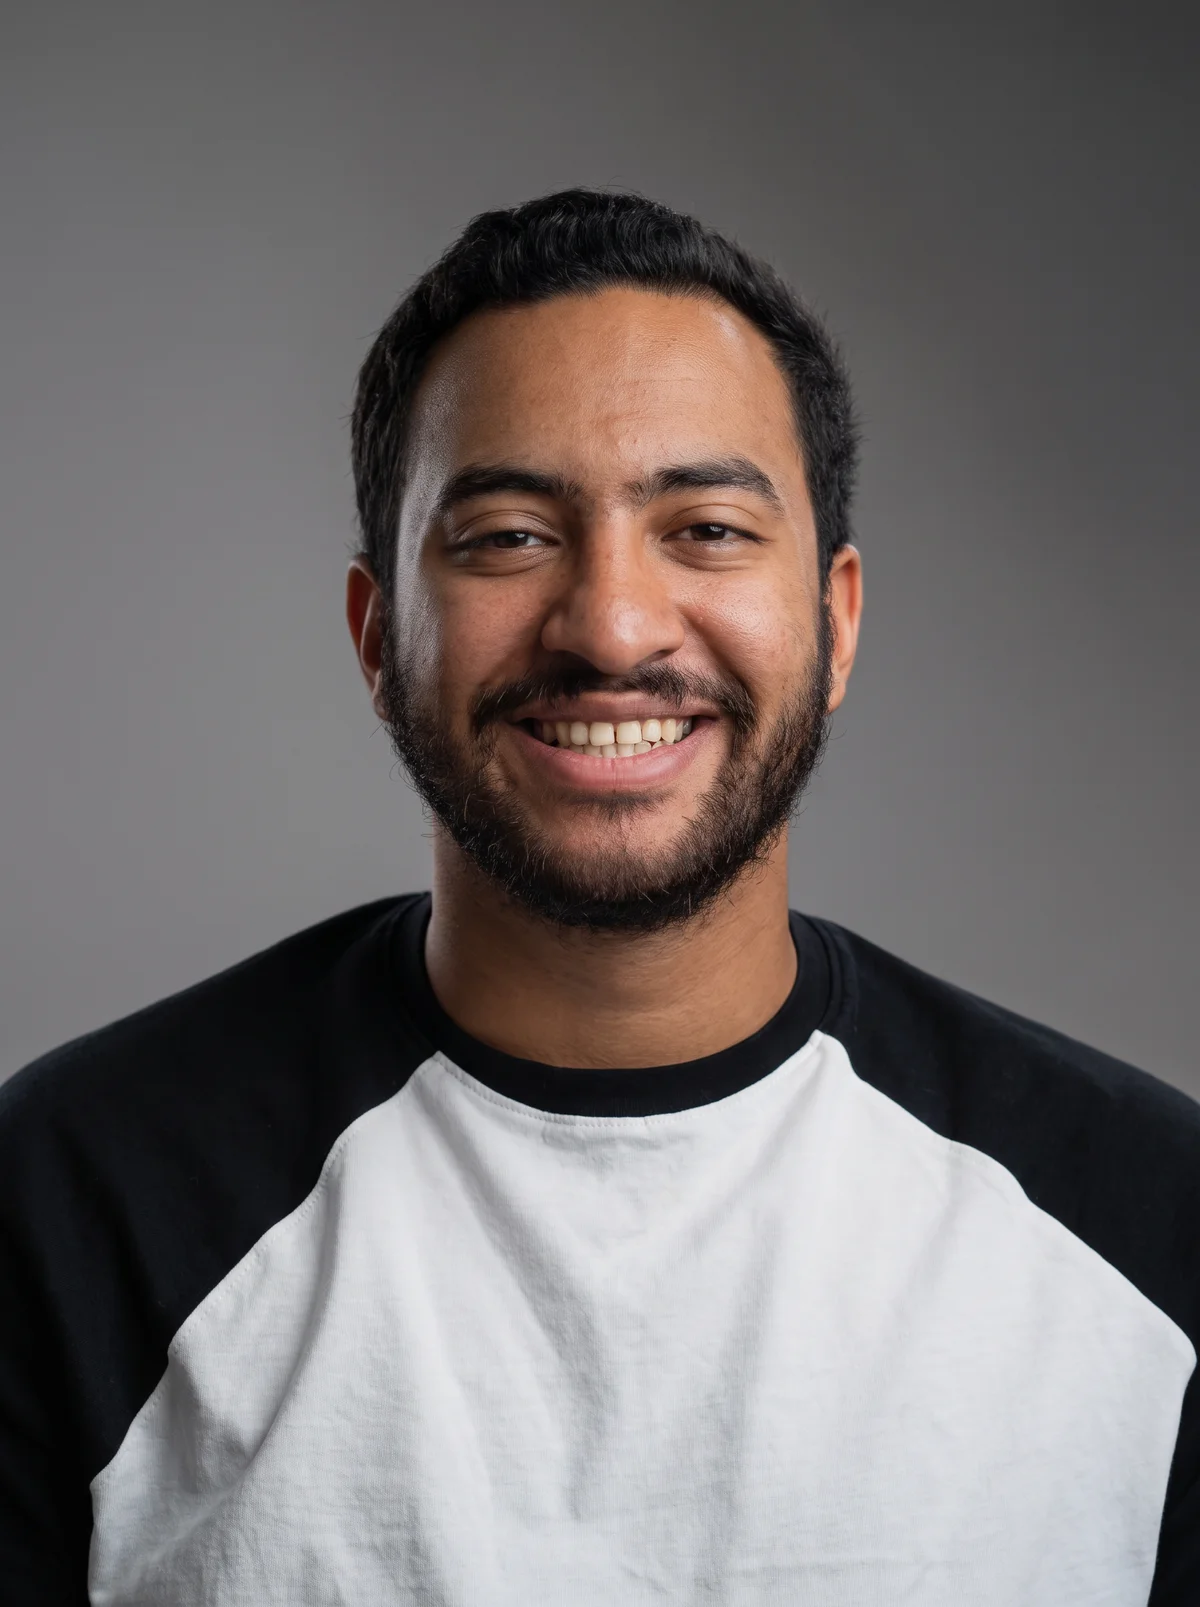
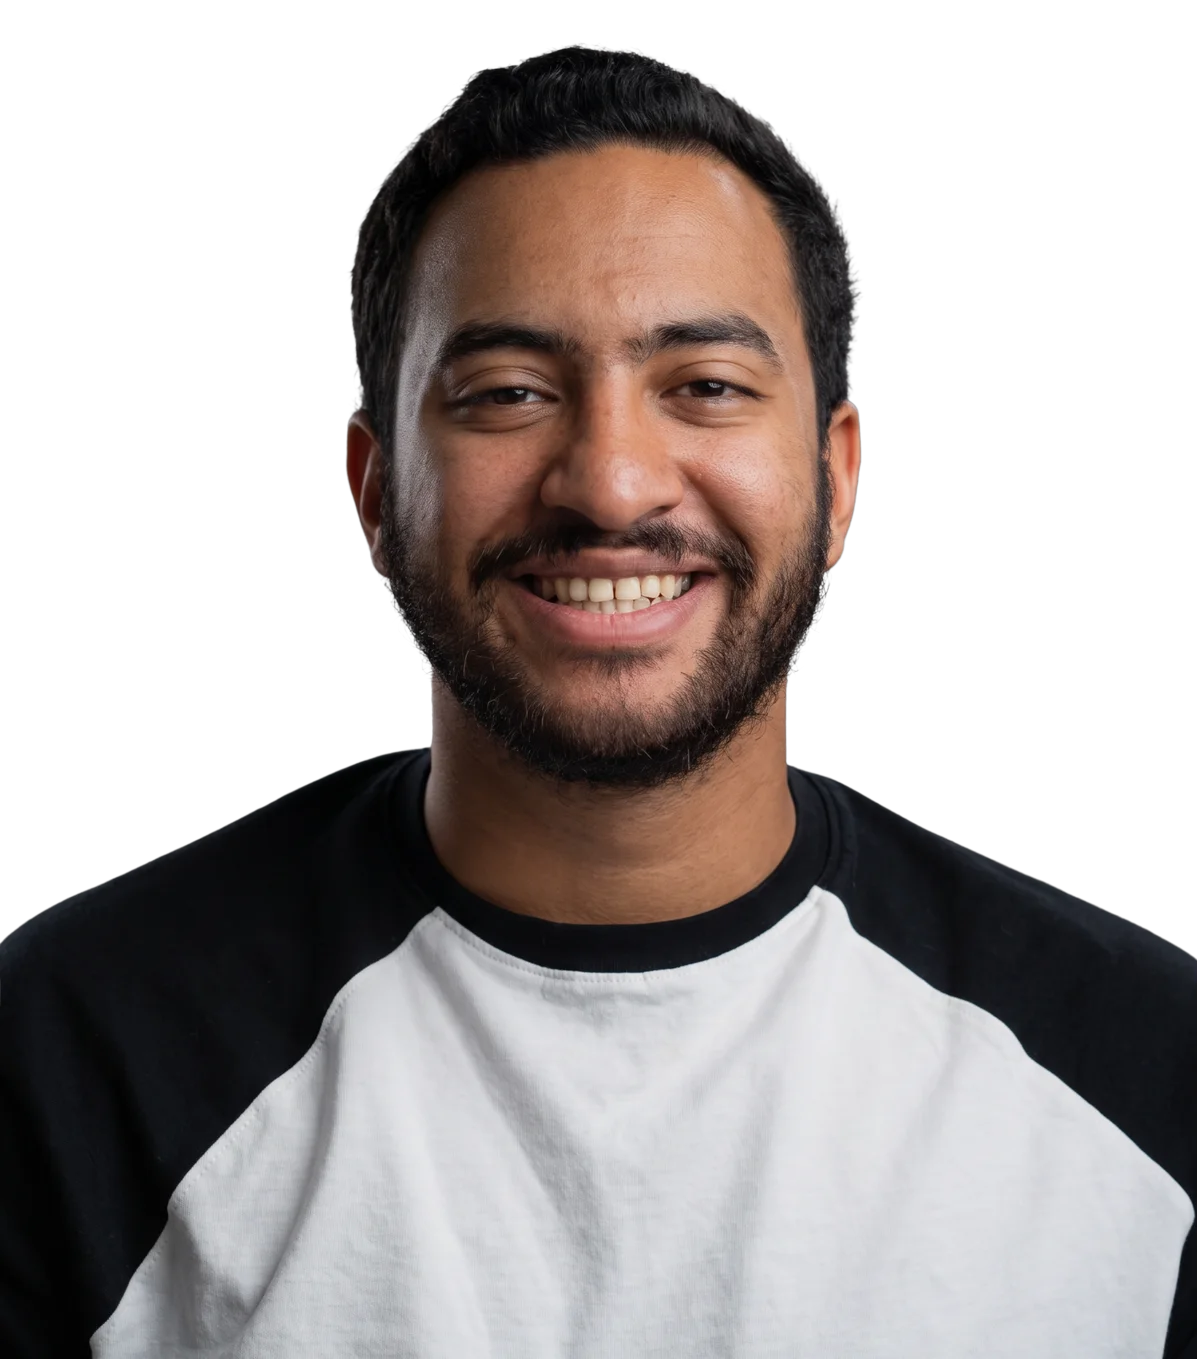
Hero: transparent cutouts, lens works on touch, layers pixel-aligned
- Replace the framed photos with owner-supplied background-free cutouts,
  scaled to the same head height and centred on one canvas so the reveal
  lines up with the base.
- Both layers now share one parallax transform and the base no longer
  zooms 10%, so the cyborg no longer drifts off the face.
- Bottom-fade mask dissolves the shoulder cut into the hero's bottom edge.
- Drop the touch-only fallback; the lens now opens on touchstart/touchmove
  and closes on touchend, so mobile gets the reveal effect too.
- objectFit prop becomes backgroundSize so the hero can size the bust
  ("auto 78%", anchored bottom) instead of cover-cropping the face.

diff --git a/src/components/CursorLens.tsx b/src/components/CursorLens.tsx
@@ -21,10 +21,13 @@ if (typeof window !== "undefined") {
   );
 }
 
+// Portrait cutouts end in a hard horizontal cut at the shoulders; dissolve it into the hero's bottom edge.
+const BOTTOM_FADE = "linear-gradient(to bottom, black 82%, transparent 100%)";
+
 type CursorLensProps = {
   baseImage?: string;
   revealImage?: string;
-  objectFit?: "cover" | "contain";
+  backgroundSize?: string;
   backgroundPosition?: string;
   backgroundColor?: string;
   blobOutlineColor?: string;
@@ -42,10 +45,10 @@ type CursorLensProps = {
   viscosity?: number;
 };
 
-function CursorLensInteractive({
+export default function CursorLens({
   baseImage = "",
   revealImage = "",
-  objectFit = "cover",
+  backgroundSize = "cover",
   backgroundPosition = "center",
   backgroundColor = "#1a1a2e",
   blobOutlineColor = "#4a4e69",
@@ -76,25 +79,16 @@ function CursorLensInteractive({
   const smoothX = useSpring(mouseXRatio, smoothOptions);
   const smoothY = useSpring(mouseYRatio, smoothOptions);
 
-  const baseX = useTransform(
+  // Both layers share one transform so the reveal stays pixel-aligned with the base.
+  const parallaxX = useTransform(
     smoothX,
     [-1, 1],
     [parallaxStrength, -parallaxStrength],
   );
-  const baseY = useTransform(
+  const parallaxY = useTransform(
     smoothY,
     [-1, 1],
     [parallaxStrength, -parallaxStrength],
-  );
-  const revealX = useTransform(
-    smoothX,
-    [-1, 1],
-    [parallaxStrength * 2.5, -parallaxStrength * 2.5],
-  );
-  const revealY = useTransform(
-    smoothY,
-    [-1, 1],
-    [parallaxStrength * 2.5, -parallaxStrength * 2.5],
   );
 
   React.useEffect(() => {
@@ -120,15 +114,28 @@ function CursorLensInteractive({
         mouseY.set(y);
         mouseXRatio.set((x / rect.width) * 2 - 1);
         mouseYRatio.set((y / rect.height) * 2 - 1);
+        if (touch) {
+          isHoveringRef.current = true;
+          setIsHovering(true);
+        }
       } else {
         mouseXRatio.set(0);
         mouseYRatio.set(0);
       }
     };
 
+    const handleTouchEnd = () => {
+      isHoveringRef.current = false;
+      setIsHovering(false);
+      mouseXRatio.set(0);
+      mouseYRatio.set(0);
+    };
+
     window.addEventListener("mousemove", handleGlobalMove);
-    window.addEventListener("touchstart", handleGlobalMove);
-    window.addEventListener("touchmove", handleGlobalMove);
+    window.addEventListener("touchstart", handleGlobalMove, { passive: true });
+    window.addEventListener("touchmove", handleGlobalMove, { passive: true });
+    window.addEventListener("touchend", handleTouchEnd);
+    window.addEventListener("touchcancel", handleTouchEnd);
 
     const handlePrime = () => {
       if (_cachedClientX < 0 || !containerRef.current) return;
@@ -155,6 +162,8 @@ function CursorLensInteractive({
       window.removeEventListener("mousemove", handleGlobalMove);
       window.removeEventListener("touchstart", handleGlobalMove);
       window.removeEventListener("touchmove", handleGlobalMove);
+      window.removeEventListener("touchend", handleTouchEnd);
+      window.removeEventListener("touchcancel", handleTouchEnd);
       window.removeEventListener("cursor-prime", handlePrime);
     };
   }, [mouseX, mouseY, mouseXRatio, mouseYRatio]);
@@ -227,6 +236,8 @@ function CursorLensInteractive({
     backgroundPosition: backgroundPosition,
     backgroundRepeat: "no-repeat",
     willChange: "transform",
+    maskImage: BOTTOM_FADE,
+    WebkitMaskImage: BOTTOM_FADE,
   };
 
   return (
@@ -325,10 +336,9 @@ function CursorLensInteractive({
             style={{
               ...imgStyle,
               backgroundImage: `url(${baseImage})`,
-              backgroundSize: objectFit,
-              x: baseX,
-              y: baseY,
-              scale: 1.1,
+              backgroundSize,
+              x: parallaxX,
+              y: parallaxY,
             }}
           />
         </div>
@@ -347,68 +357,13 @@ function CursorLensInteractive({
             style={{
               ...imgStyle,
               backgroundImage: `url(${revealImage})`,
-              backgroundSize: objectFit,
-              x: revealX,
-              y: revealY,
+              backgroundSize,
+              x: parallaxX,
+              y: parallaxY,
             }}
           />
         </motion.div>
       )}
     </div>
   );
-}
-
-// Lightweight hero for touch devices — shows profile directly, no cursor springs
-function CursorLensMobile({
-  baseImage = "",
-  revealImage = "",
-  objectFit = "cover" as const,
-  backgroundPosition = "center",
-  backgroundColor = "#1a1a2e",
-  blobOutlineColor = "#4a4e69",
-  showBackground = true,
-  bgBlobCount = 6,
-  bgBlobSize = 80,
-  bgBlobComplexity = 60,
-  bgBlobSpeed = 1,
-  blobStrokeWidth = 1,
-}: CursorLensProps) {
-  const image = baseImage || revealImage;
-  return (
-    <div style={{ position: "relative", width: "100%", height: "100%", overflow: "hidden", backgroundColor }}>
-      {showBackground && (
-        <BlobBackground
-          backgroundColor={backgroundColor}
-          blobColor={blobOutlineColor}
-          blobCount={bgBlobCount}
-          blobSize={bgBlobSize}
-          blobComplexity={bgBlobComplexity}
-          blobSpeed={bgBlobSpeed}
-          strokeWidth={blobStrokeWidth}
-          strokeOpacity={0.5}
-        />
-      )}
-      {image && (
-        <div
-          style={{
-            position: "absolute",
-            inset: 0,
-            backgroundImage: `url(${image})`,
-            backgroundSize: objectFit,
-            backgroundPosition,
-            backgroundRepeat: "no-repeat",
-            zIndex: 20,
-          }}
-        />
-      )}
-    </div>
-  );
-}
-
-export default function CursorLens(props: CursorLensProps) {
-  const isTouchDevice = React.useMemo(
-    () => typeof window !== "undefined" && window.matchMedia("(hover: none)").matches,
-    [],
-  );
-  return isTouchDevice ? <CursorLensMobile {...props} /> : <CursorLensInteractive {...props} />;
 }

diff --git a/src/App.tsx b/src/App.tsx
@@ -314,8 +314,8 @@ function AppContent({
         <CursorLens
           baseImage="/assets/hero-top.webp"
           revealImage="/assets/hero-reveal.webp"
-          objectFit="cover"
-          backgroundPosition="center 18%"
+          backgroundSize="auto 78%"
+          backgroundPosition="center bottom"
           backgroundColor={isDarkMode ? "#0f0e1a" : "#f5f5ff"}
           blobOutlineColor={isDarkMode ? "#4f46e5" : "#a5b4fc"}
           parallaxStrength={8}
